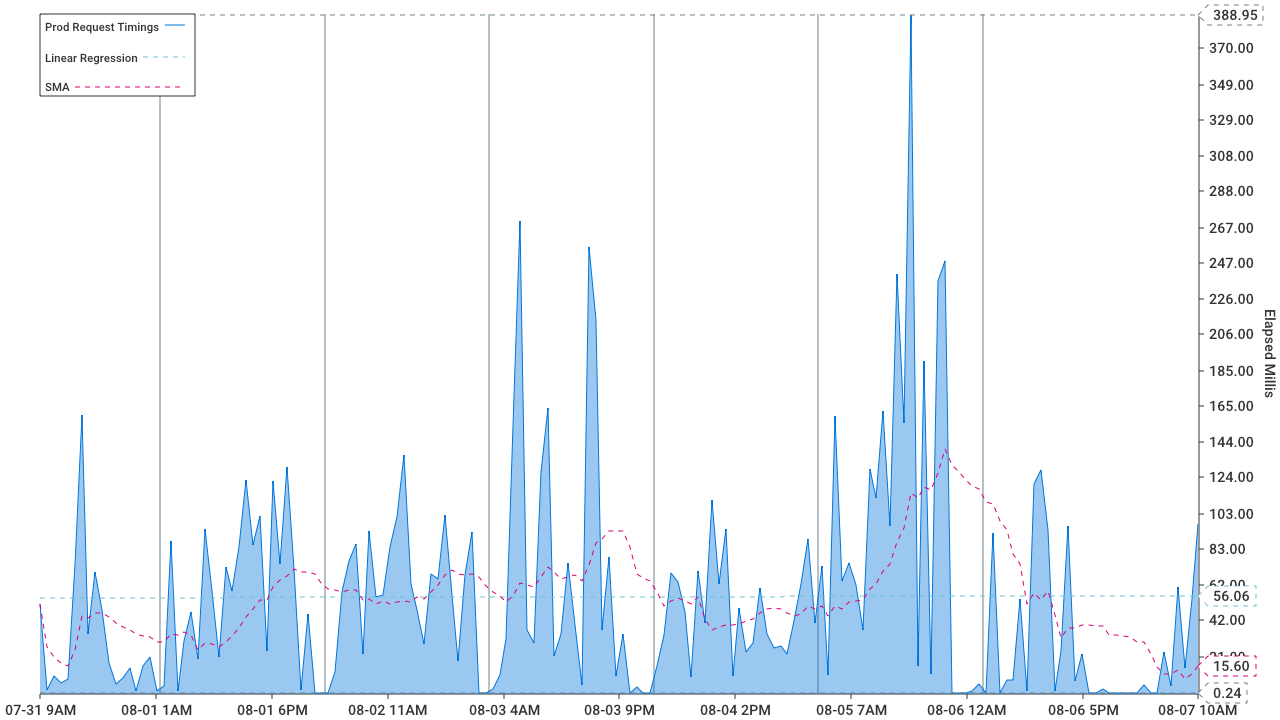
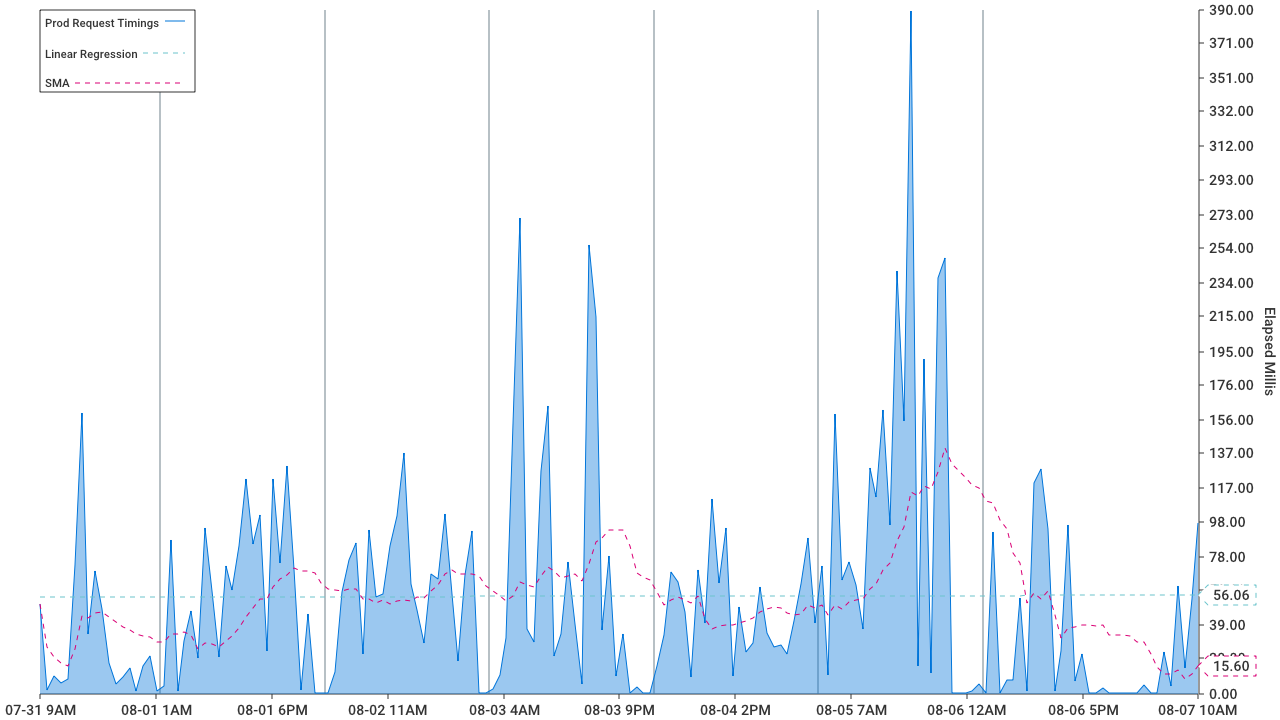
tweaking example.

diff --git a/_examples/request_timings/main.go b/_examples/request_timings/main.go
@@ -49,24 +49,6 @@ func drawChart(res http.ResponseWriter, req *http.Request) {
 		YValues: yvalues,
 	}
 
-	minSeries := &chart.MinSeries{
-		Style: chart.Style{
-			Show:            true,
-			StrokeColor:     chart.ColorAlternateGray,
-			StrokeDashArray: []float64{5.0, 5.0},
-		},
-		InnerSeries: mainSeries,
-	}
-
-	maxSeries := &chart.MaxSeries{
-		Style: chart.Style{
-			Show:            true,
-			StrokeColor:     chart.ColorAlternateGray,
-			StrokeDashArray: []float64{5.0, 5.0},
-		},
-		InnerSeries: mainSeries,
-	}
-
 	linreg := &chart.LinearRegressionSeries{
 		Name: "Linear Regression",
 		Style: chart.Style{
@@ -107,8 +89,6 @@ func drawChart(res http.ResponseWriter, req *http.Request) {
 		},
 		Series: []chart.Series{
 			mainSeries,
-			minSeries,
-			maxSeries,
 			linreg,
 			chart.LastValueAnnotation(linreg),
 			sma,
